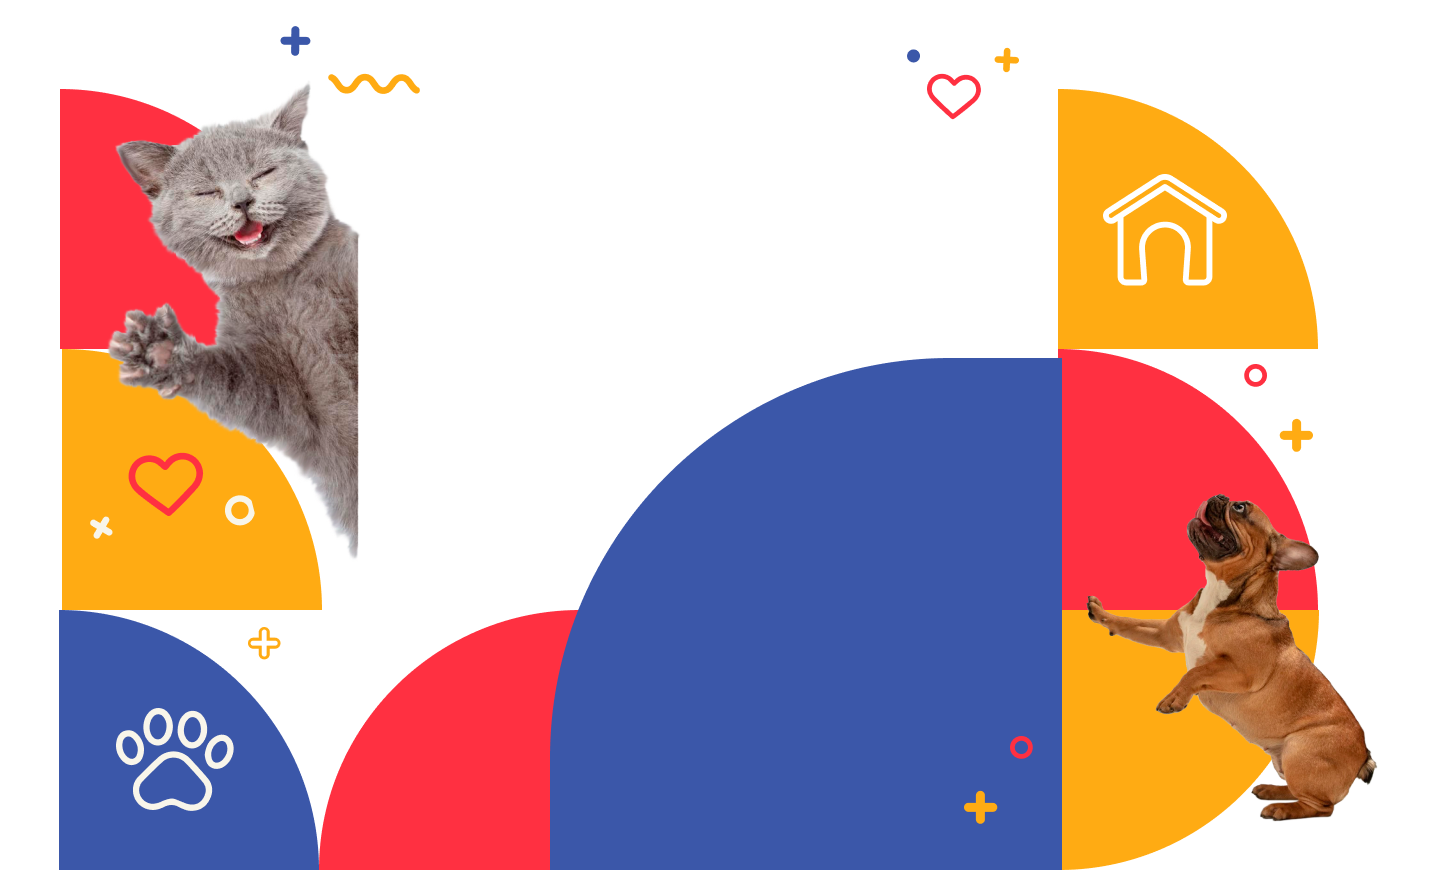
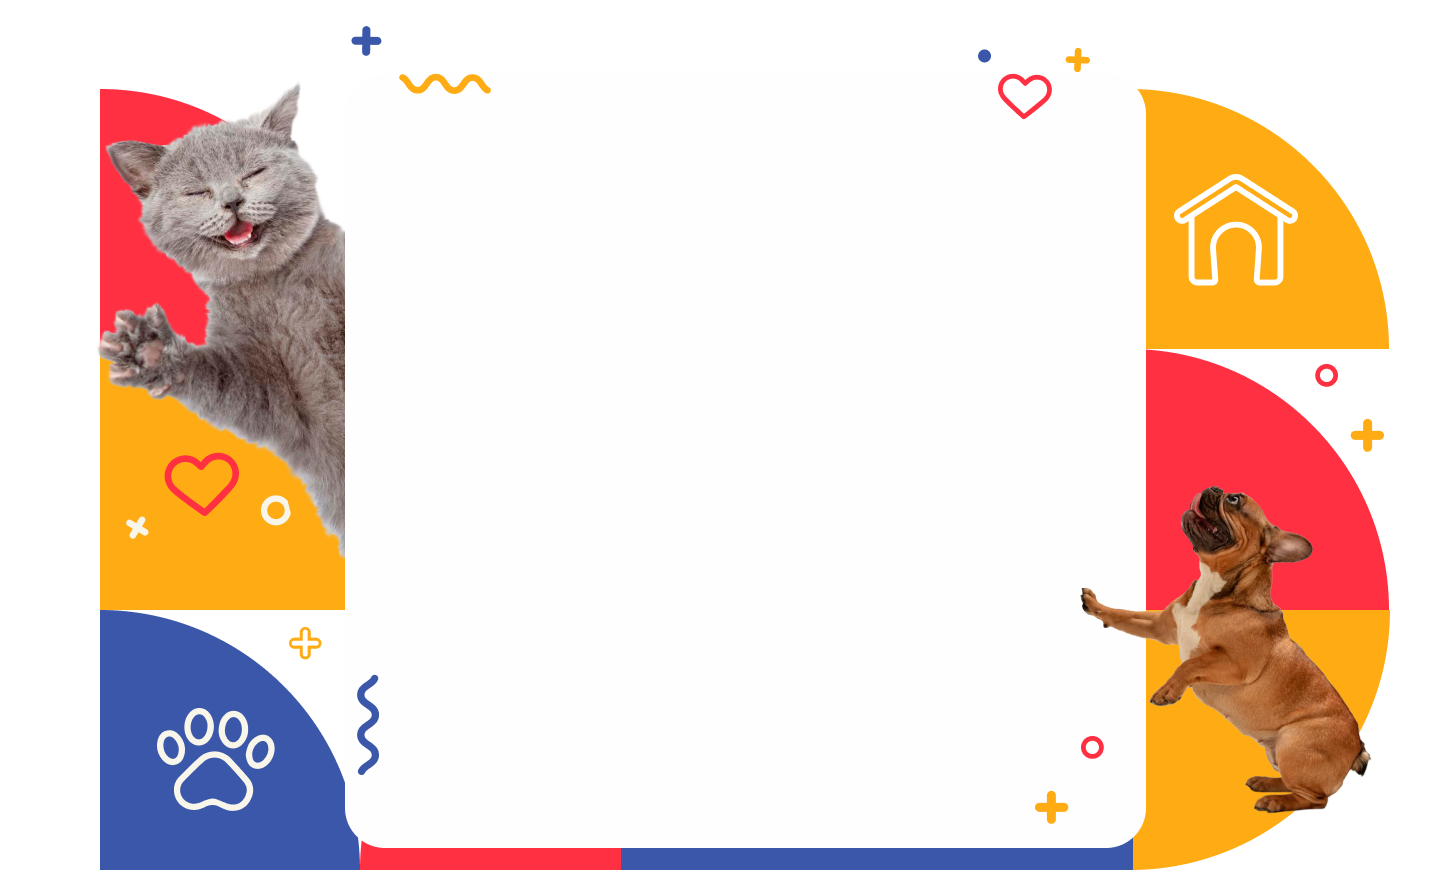
feature: fix background contact

diff --git a/client/src/pages/Contact/Contact.jsx b/client/src/pages/Contact/Contact.jsx
@@ -22,16 +22,16 @@ const Contact = () => {
               alignItems="center"
               sx={{height:'100%'}}
             >
-              <Grid item md={6} sx={{height:'70%', background:'#fff', position:'relative', zIndex:'6', borderRadius:'10%', padding:'0px 100px', boxShadow: '0px 0px 21px 0px rgba(0,0,0,0.1)'}}>
-                <Box component="form" sx={{display:'flex',flexDirection:'column', gap:'15px', justifyContent:'center',height:'100%'}}>
-                  <Typography component="h1" variant="h3" align='center' sx={{color:'#FF3041', textTransform:'uppercase', fontWeight:'700'}}>
+              <Grid item md={6} >
+                <Box component="form" sx={{display:'flex',flexDirection:'column', gap:'15px', justifyContent:'center',height:'100%', margin:'0px 70px'}}>
+                  <Typography component="h1" variant="h4" align='center' sx={{color:'#FF3041', textTransform:'uppercase', fontWeight:'700'}}>
                     CONTACTANOS
                   </Typography>
                   <TextField label="Nombre" variant="standard" />
                   <TextField label="Correo" variant="standard" />
                   <TextField label="Mensaje" variant="standard" />
 
-                  <Button variant="contained" color='info' size="large" sx={{borderRadius:'20px'}}>Enviar</Button>
+                  <Button variant="contained" color='info' size="large" sx={{borderRadius:'20px', marginTop:'30px'}}>Enviar</Button>
 
                 </Box>
               </Grid>
